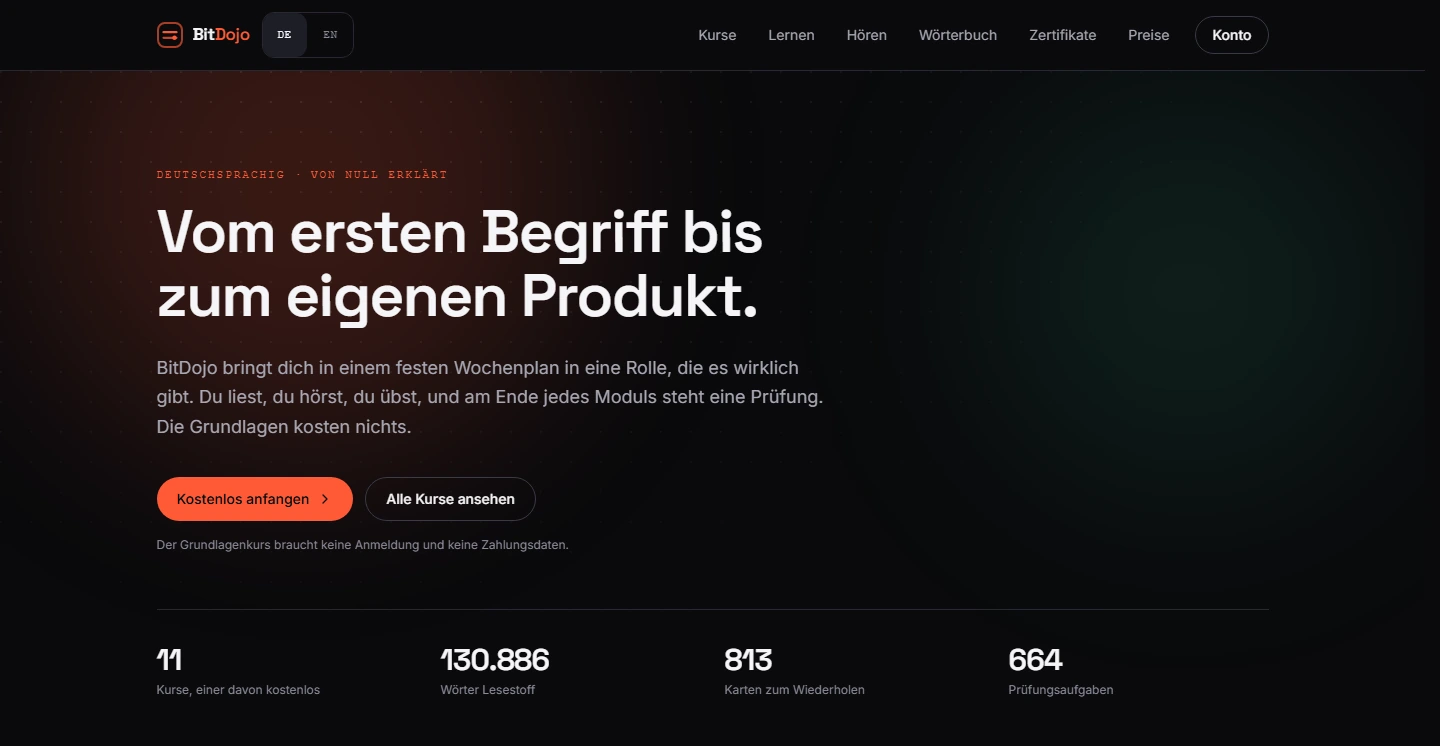
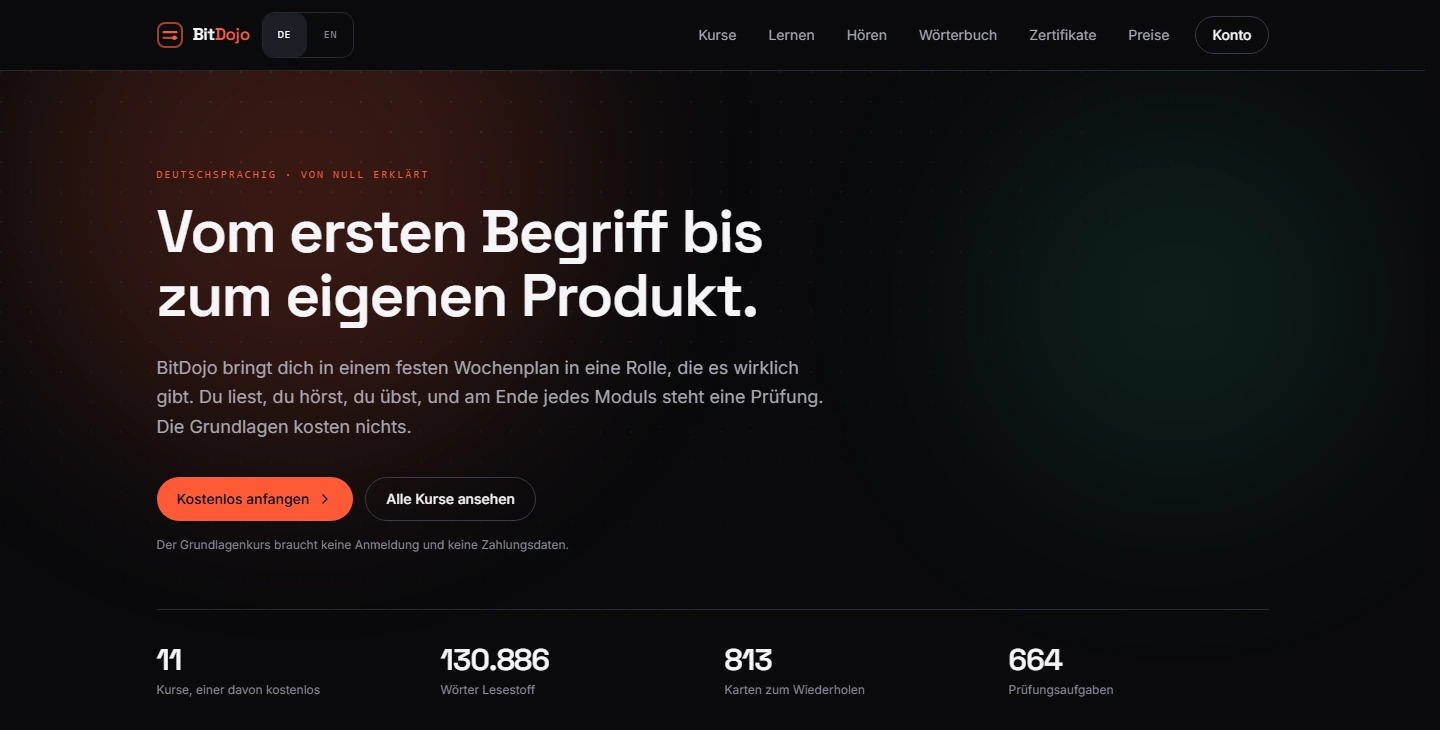
Produktaufnahmen kommen aus einem Lauf und enden an gemessenen Kanten
Die Aufnahmen entstanden bisher von Hand, und eine Aufnahme von Hand veraltet
still. nouri-desktop.png war vom 2. August und zeigte auf der Startseite "14
Tage kostenlos testen" und eine Sprachumschaltung mit sechs Sprachen. Auf
www.nouri-fitness.de steht seit dem 15. August "Sieben Tage kostenlos testen",
und die Sprachumschaltung ist als vorgetaeuschte Mehrsprachigkeit entfernt. Die
Seite warb also mit einer Probezeit, die es nicht gibt.

scripts/capture-shots.mjs nimmt die fuenf Website-Aufnahmen jetzt in einem
Befehl neu auf. Zustimmungsbanner klickt er auf der ablehnenden Seite weg,
"Alle akzeptieren" fasst er nicht an.

Die Ausschnitte sassen falsch, und zwar vier von fuenf. Gemessen wurde die
Oberkante des Abschnitts NACH dem Kopfbereich: nouri 762 statt 828, menucloud
1375 statt 1466 im Inhalt und 1480 in der Datei, bitdojo 730 statt 746,
lexipulse 728 statt 698. Dartile stimmte mit 799.

Dabei getrennt, was vorher dasselbe war: Fensterhoehe beim Aufnehmen und
Bildausschnitt. NOURIs Kopfbereich fuellt die Fensterhoehe, die naechste Kante
liegt immer 66 Pixel darueber. Wer beides gleichsetzt, jagt sich im Kreis.

Dazu zwei Zahlen, die die parallele NOURI-Sitzung bewegt hat: 63 Tabellen statt
62 und 16 Migrationen statt 15, nachgezogen in beiden Sprachfassungen, im
Architekturbild, im Lebenslauf, im CV, im Vorbereitungsband und in der
LinkedIn-Vorlage. check-figures meldet wieder null Abweichungen.

diff --git a/src/content/site.ts b/src/content/site.ts
@@ -742,9 +742,12 @@ export const caseStudies: CaseStudy[] = [
         /* Der Ausschnitt endet an der Sektionskante, nicht an einer runden
            Zahl: Die vorherige Aufnahme war 1440 x 900 und schnitt quer durch
            die Knopfreihe. Dazu trug sie eine echte Bildlaufleiste am Rand,
-           innerhalb eines gezeichneten Browserrahmens. */
+           innerhalb eines gezeichneten Browserrahmens.
+           Die Kante ist am 16.08.2026 nachgemessen und liegt bei 1375; hier
+           standen 1466 und in der Datei 1480, also drei Zahlen fuer dieselbe
+           Kante. Gemessen wird sie jetzt von `scripts/capture-shots.mjs`. */
         width: 1440,
-        height: 1466,
+        height: 1375,
         label: "menucloud-berlin.de",
       },
       {
@@ -848,7 +851,7 @@ export const caseStudies: CaseStudy[] = [
     },
     highlights: [
       "Monorepo mit geteiltem Katalog und geteilter Rechenlogik über Web und App",
-      "62 Tabellen mit Row Level Security, 30 Fremdschlüssel hängen mit ON DELETE CASCADE an den Konten",
+      "63 Tabellen mit Row Level Security, 30 Fremdschlüssel hängen mit ON DELETE CASCADE an den Konten",
       "Nährwerte aus den Zutaten gerechnet, der ganze Katalog gegen Atwater geprüft: größte Abweichung 2,07 Prozent",
       "Nutzung ohne Konto bleibt vollständig lokal, kein Login-Zwang",
       "Kontolöschung nach Art. 17 DSGVO über eine Edge Function, am laufenden Projekt durchgeprüft",
@@ -888,8 +891,8 @@ export const caseStudies: CaseStudy[] = [
          `supabase/migrations` und hält sie gegen diese beiden Zahlen. Sie
          standen hier auf 59 und 12 und waren damit um drei Tabellen und drei
          Migrationen zu niedrig. */
-      { value: "62", label: "Tabellen" },
-      { value: "15", label: "Migrationen" },
+      { value: "63", label: "Tabellen" },
+      { value: "16", label: "Migrationen" },
       { value: "538", label: "Tests" },
     ],
     links: [
@@ -914,9 +917,12 @@ export const caseStudies: CaseStudy[] = [
         src: "/shots/nouri-desktop.webp",
         alt: "Startseite von nouri-fitness.de mit der Titelzeile und den Knöpfen zum Öffnen der App.",
         /* Endet an der Kante des Kopfbereichs. Die vorherige Aufnahme war
-           1440 x 900 und schnitt mitten durch die Kennzahlenreihe. */
+           1440 x 900 und schnitt mitten durch die Kennzahlenreihe.
+           828 tat es am 16.08.2026 wieder: NOURIs Kopfbereich fuellt die
+           Fensterhoehe, und die naechste Kante liegt immer 66 Pixel darueber.
+           Bei einem 828 hohen Fenster faengt die Reihe also bei 762 an. */
         width: 1440,
-        height: 828,
+        height: 762,
         label: "nouri-fitness.de",
       },
       {
@@ -1018,7 +1024,7 @@ export const caseStudies: CaseStudy[] = [
         src: "/shots/bitdojo-desktop.webp",
         alt: "Startseite von bitdojo.de: die Überschrift „Vom ersten Begriff bis zum eigenen Produkt“, darunter die Kennzahlen der Plattform.",
         width: 1440,
-        height: 746,
+        height: 730,
         label: "bitdojo.de",
       },
       {
@@ -1196,7 +1202,7 @@ export const caseStudies: CaseStudy[] = [
         src: "/shots/lexipulse-desktop.webp",
         alt: "Startseite von lexipulse.de: die Überschrift „Lesen, ohne dass die Augen springen“ neben einer laufenden Vorführung des Readers.",
         width: 1440,
-        height: 698,
+        height: 728,
         label: "lexipulse.de",
       },
       {

diff --git a/src/content/en.ts b/src/content/en.ts
@@ -564,7 +564,7 @@ export const en: Content = {
           src: "/shots/menucloud-desktop.webp",
           alt: "Home page of menucloud-berlin.de promising zero commission, GDPR and cash-register compliance, with a preview of the self-service admin.",
           width: 1440,
-          height: 1466,
+          height: 1375,
           label: "menucloud-berlin.de",
         },
         {
@@ -653,7 +653,7 @@ export const en: Content = {
       },
       highlights: [
         "Monorepo with a shared catalogue and shared rules across web and app",
-        "62 tables with row level security, 30 foreign keys hanging off the accounts with ON DELETE CASCADE",
+        "63 tables with row level security, 30 foreign keys hanging off the accounts with ON DELETE CASCADE",
         "Nutrition computed from ingredients, the whole catalogue checked against Atwater: largest deviation 2.07 per cent",
         "Using the app without an account stays entirely local, no forced login",
         "Account deletion under Art. 17 GDPR through an edge function, verified against the running project",
@@ -682,8 +682,8 @@ export const en: Content = {
       ],
       metrics: [
         { value: "11,892", label: "recipes in the catalogue" },
-        { value: "62", label: "tables" },
-        { value: "15", label: "migrations" },
+        { value: "63", label: "tables" },
+        { value: "16", label: "migrations" },
         { value: "538", label: "tests" },
       ],
       links: [
@@ -704,7 +704,7 @@ export const en: Content = {
           src: "/shots/nouri-desktop.webp",
           alt: "Home page of nouri-fitness.de with the headline and the buttons that open the app.",
           width: 1440,
-          height: 828,
+          height: 762,
           label: "nouri-fitness.de",
         },
         {
@@ -806,7 +806,7 @@ export const en: Content = {
           src: "/shots/bitdojo-desktop.webp",
           alt: "Home page of bitdojo.de: the headline “from your first term to your own product”, below it the platform’s figures.",
           width: 1440,
-          height: 746,
+          height: 730,
           label: "bitdojo.de",
         },
         {
@@ -973,7 +973,7 @@ export const en: Content = {
           src: "/shots/lexipulse-desktop.webp",
           alt: "Home page of lexipulse.de: the headline “reading without the eyes jumping” next to a running demonstration of the reader.",
           width: 1440,
-          height: 698,
+          height: 728,
           label: "lexipulse.de",
         },
         {

diff --git a/src/components/ArchitectureDiagram.tsx b/src/components/ArchitectureDiagram.tsx
@@ -584,7 +584,7 @@ const ARCHITECTURES: Record<string, Diagram> = {
       {
         id: "sb",
         label: "Supabase / Postgres",
-        sub: "62 Tabellen · RLS · ON DELETE CASCADE",
+        sub: "63 Tabellen · RLS · ON DELETE CASCADE",
         x: 20,
         y: 302,
         w: 430,

diff --git a/README.md b/README.md
@@ -264,6 +264,7 @@ scripts/
 ├─ build-onepager-pdf.mjs         druckt beide Kurzprofile auf je eine A4-Seite
 ├─ build-portrait.mjs             erzeugt alle drei Porträt-Fassungen aus einem Original
 ├─ build-shots.mjs                erzeugt public/shots/*.webp aus den Originalen daneben
+├─ capture-shots.mjs              nimmt die fünf Website-Aufnahmen neu auf, an gemessenen Kanten
 └─ lib/local-server.mjs           startet den gebauten Stand auf einem freien Port
 
 .github/workflows/
